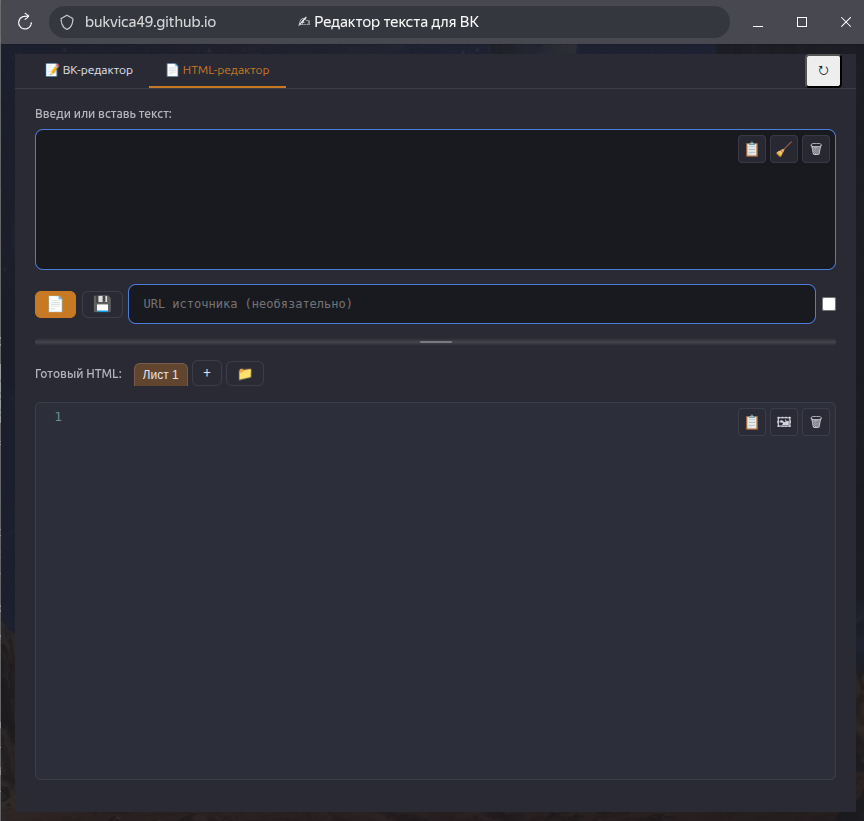
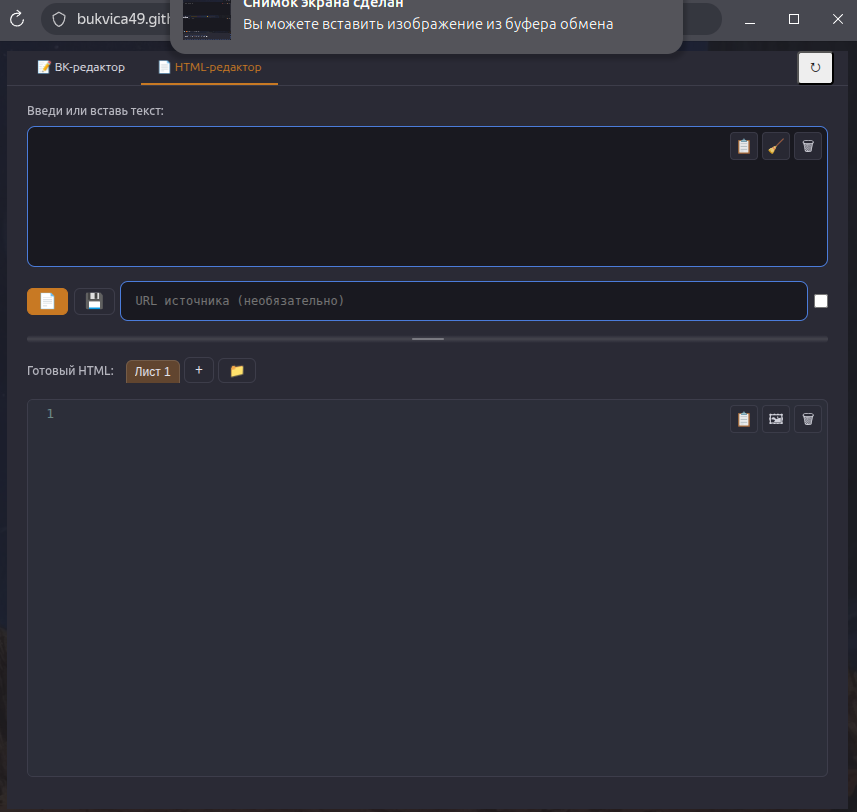
скрины попапа: актуальное состояние; секция скриншотов без пометки про старые снимки

diff --git a/MANUAL_CODE_EDITOR.md b/MANUAL_CODE_EDITOR.md
@@ -82,7 +82,7 @@
 
 ## Скриншоты
 
-Скрины в `docs/img/` сняты до пуша правок 24.11.2026 (на них ещё «Сверстать HTML» и «Запомнить из верхнего поля»). После обновления прод-страницы переснять и заменить файлы **под теми же именами** — текст мануала менять не нужно:
+Скрины вкладок — актуальное состояние попапа после пуша 24.11.2026:
 - `docs/img/vk-editor-tab.png` — вкладка ВК
 - `docs/img/html-editor-tab.png` — вкладка HTML
 - `docs/img/popup-open.png` — общий вид
